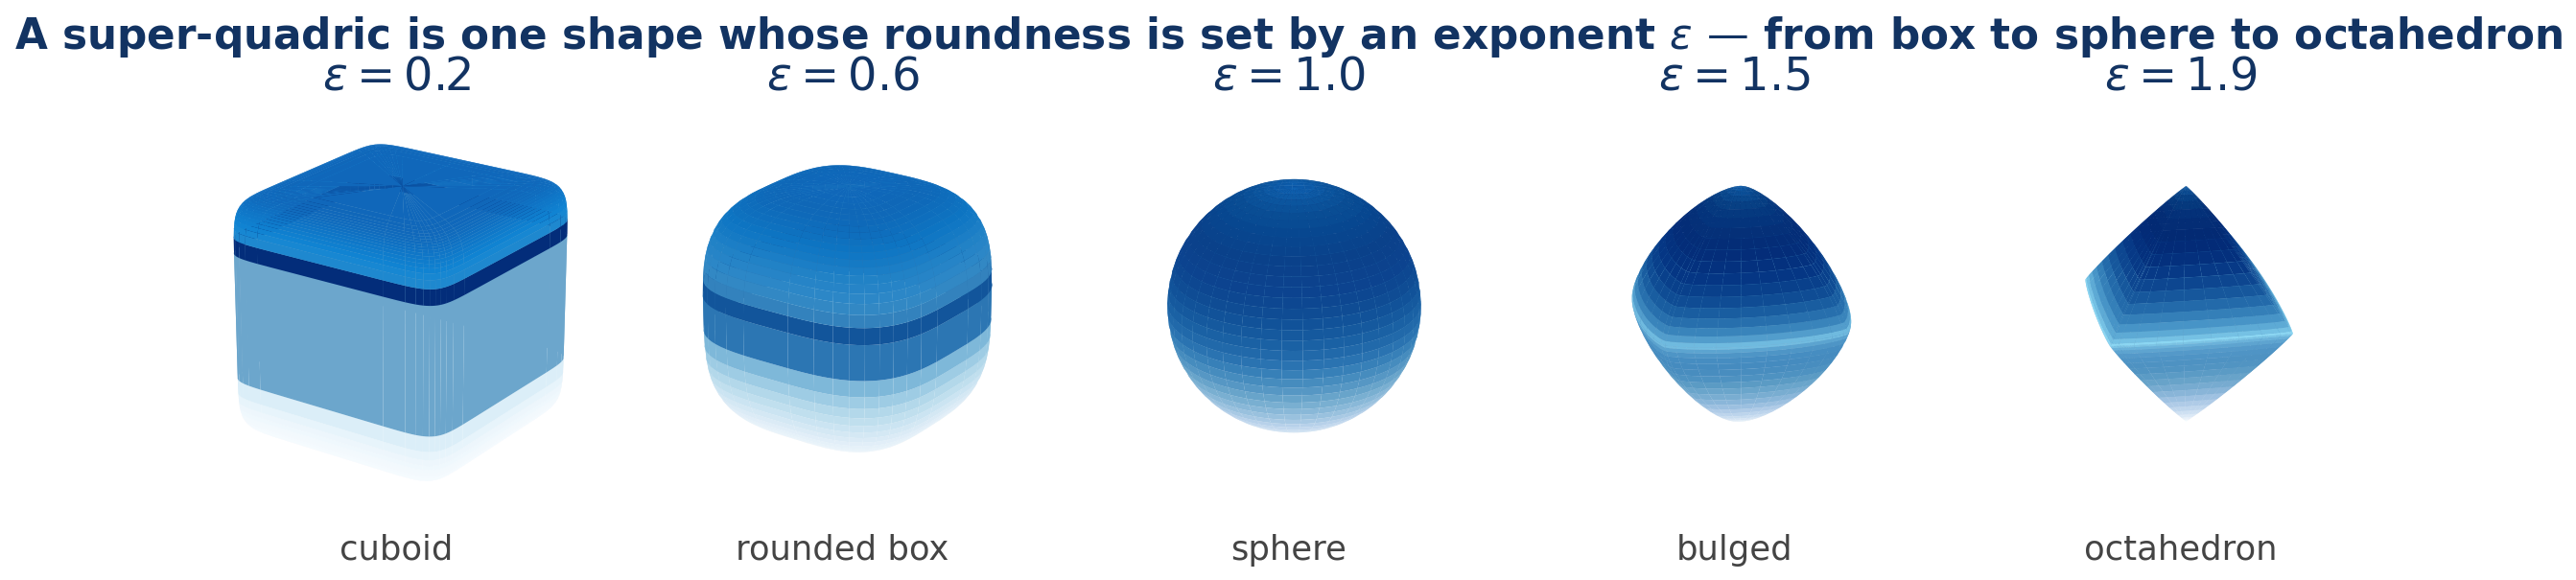
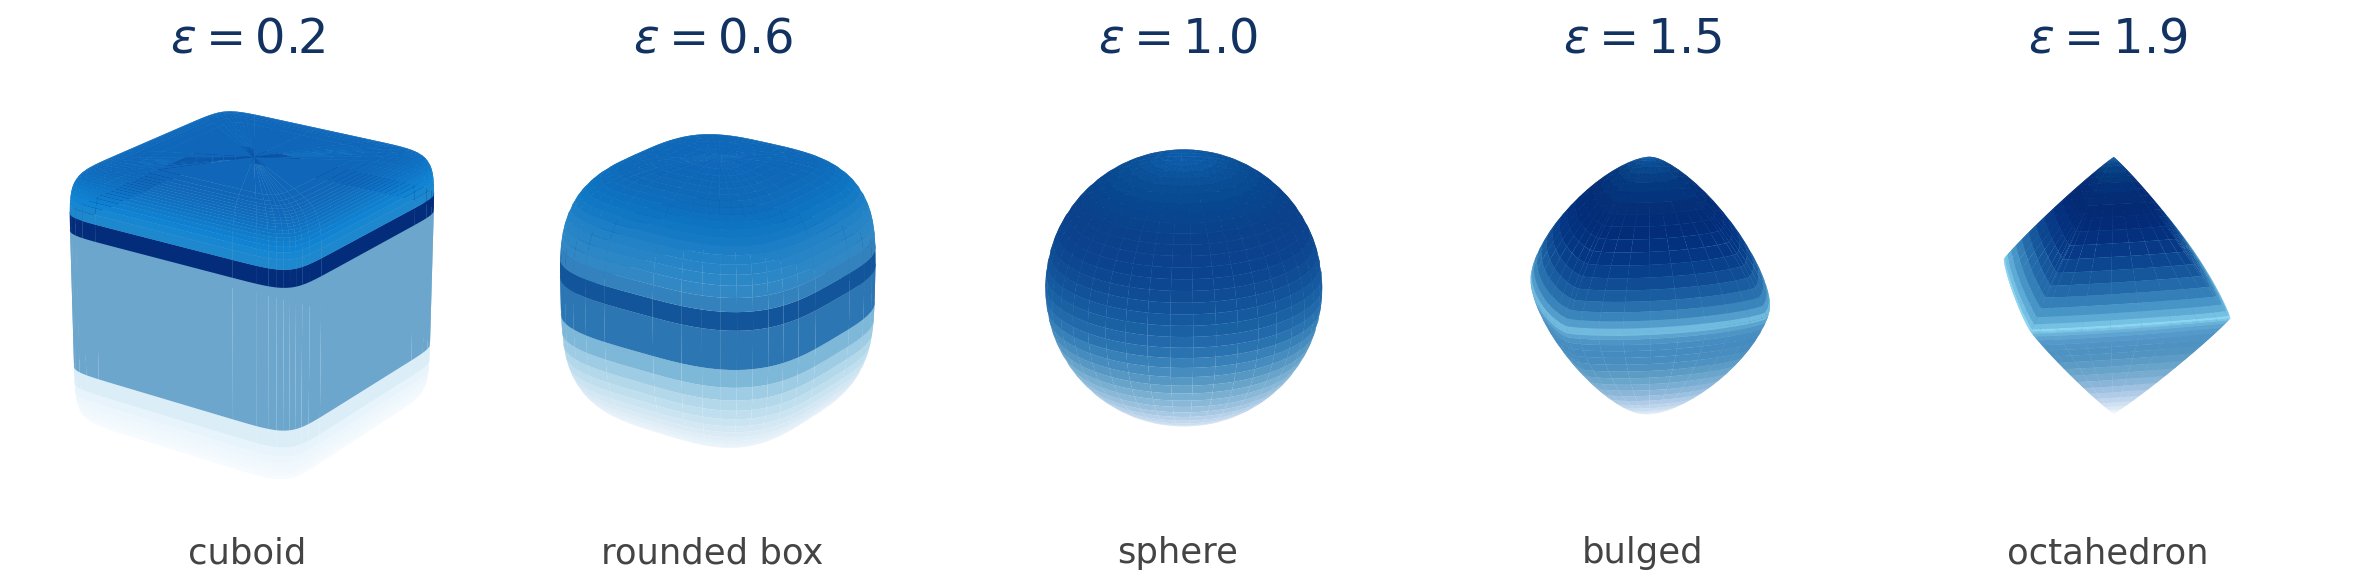
verticla spacing

diff --git a/poster/poster.tex b/poster/poster.tex
@@ -48,7 +48,8 @@
 \setlength{\columnsep}{\gutter}
 \newlength{\colwidth}
 \setlength{\colwidth}{\dimexpr0.5\paperwidth-\margin-0.5\gutter\relax}
-\newcommand{\flexgap}{\vspace{\gutter}}   % fixed, consistent gap between cards
+\newlength{\colheight}\setlength{\colheight}{57cm}   % target height: columns fill the page
+\newcommand{\flexgap}{\vfill}   % flexible gap: distributes slack so columns fill the page
 
 %------------------------------------------------------------------ canvas
 \usetheme{default}
@@ -143,6 +144,7 @@
 
 %---------------------------------------------------------------- LEFT COLUMN
 \begin{column}{\colwidth}
+\begin{minipage}[t][\colheight][s]{\colwidth}
 
   \begin{psection}{The Problem}
     Relocalization (the ``kidnapped robot'') asks for an accurate camera pose in
@@ -155,25 +157,34 @@
   \flexgap
 
   \begin{psection}{Method Overview}
-    \vskip0.2cm
+    \vskip0.25cm
     \centering
     \begin{tikzpicture}[
-        box/.style={draw=ETHBlue,line width=1.1pt,rounded corners=5pt,fill=white,
-                    minimum height=2.1cm,minimum width=8.8cm,align=center,font=\large},
-        io/.style={box,draw=ETHGrey!60,fill=BlueTint},
-        arr/.style={draw=ETHText,line width=1.4pt,-{Latex[length=4.5mm,width=3.5mm]}},
-        lbl/.style={font=\small\itshape,color=ETHGrey,align=center,fill=white,inner sep=1.5pt}]
-      \node[io]  (frames) at (-5.7,  0.0) {Sparse frames};
-      \node[box] (model)  at (-5.7, -3.2) {VGGT \,+\, MASt3R};
-      \node[io]  (map)    at ( 5.7, -1.6) {World map};
-      \node[box,fill=BlueTint,draw=ETHBlue,line width=1.4pt] (ba) at (0.0,-6.6) {Bundle Adjustment};
-      \node[box] (poses)  at ( 0.0,-9.8) {Camera poses};
+        io/.style={draw=ETHGrey!55,line width=1pt,rounded corners=5pt,fill=BlueTint,
+                   minimum height=1.85cm,minimum width=3.6cm,align=center,font=\large},
+        proc/.style={draw=ETHBlue,line width=1.3pt,rounded corners=5pt,fill=white,
+                     minimum height=1.85cm,minimum width=3.8cm,align=center,font=\large},
+        ours/.style={draw=ETHBlueDark,line width=1.6pt,rounded corners=5pt,fill=ETHBlue,
+                     text=white,minimum height=1.85cm,minimum width=4.7cm,align=center,font=\large},
+        arr/.style={draw=ETHText,line width=1.5pt,-{Latex[length=4mm,width=3mm]}},
+        flow/.style={font=\footnotesize\itshape,color=ETHGrey,align=center,
+                     fill=white,inner sep=2.5pt}]
+      % main spine: feed-forward -> optimize -> output (reads left to right)
+      \node[io]                     (frames) at ( 2.0, 0) {Sparse\\frames};
+      \node[proc,minimum width=4.8cm] (model)  at ( 8.6, 0) {VGGT \,+\, MASt3R};
+      \node[proc]                   (ba)     at (16.5, 0) {Bundle\\Adjustment};
+      \node[io]                     (poses)  at (22.7, 0) {Camera\\poses};
       \draw[arr] (frames) -- (model);
-      \draw[arr] (model)  -- node[lbl,pos=0.5,left=0.5mm] {Pose estimates\\+ correspondences} (ba);
-      \draw[arr] (map)    -- node[lbl,pos=0.5,right=0.5mm] {super-quadric\\loss} (ba);
+      \draw[arr] (model)  -- node[flow] {poses\\+ 2D tracks} (ba);
       \draw[arr] (ba)     -- (poses);
+      % our contribution: super-quadric prior adds a surface term to the BA cost
+      \node[ours] (prior) at (16.5,-3.6) {Super-quadric\\prior};
+      \draw[arr] (prior) -- (ba);
+      \node[font=\footnotesize\itshape,color=ETHBlueDark,anchor=west] at (16.85,-1.8) {$+$ surface loss};
+      \node[font=\footnotesize,color=ETHGrey,align=center,below=1mm of prior]
+            {our addition, from SuperDec on the known scene};
     \end{tikzpicture}
-    \vskip0.2cm
+    \vskip0.1cm
   \end{psection}
 
   \flexgap
@@ -226,9 +237,11 @@
     \end{minipage}
   \end{block}
 
+\end{minipage}
 \end{column}
 %---------------------------------------------------------------- RIGHT COLUMN
 \begin{column}{\colwidth}
+\begin{minipage}[t][\colheight][s]{\colwidth}
 
   \begin{psection}{Setup}
     \begin{itemize}
@@ -250,7 +263,7 @@
     \vskip0.8ex
     % ---- qualitative 3-panel pipeline (Sim(3)-aligned, rotation-error badges) ----
     \includegraphics[width=\linewidth]{figures/poses_v6_s6.png}
-    \cpt{Figure 2: one scene (scene 6, 6 views), cameras Sim(3)-aligned to ground
+    \cpt{Fig.\ 2: one scene (scene 6, 6 views), cameras Sim(3)-aligned to ground
       truth for display. Estimated headings (red) move toward ground truth (green) as
       bundle adjustment, then the prior, are added. Mean rotation error
       $20^\circ\!\to\!10^\circ\!\to\!2^\circ$ (pose AUC@5 $29\to48\to\mathbf{57}$).}
@@ -286,19 +299,20 @@
           title style={font=\small\bfseries,color=ETHBlueDark,yshift=1mm},
           symbolic x coords={4,6,8,10}, xtick=data,
           xlabel={Number of input views}, ylabel={$\Delta$ AUC@5 (pp)},
-          ymin=0, ymax=1.85, clip=false,
+          ymin=0, ymax=1.85, ytick={0,0.5,1,1.5}, clip=false,
           nodes near coords={\textbf{+\pgfmathprintnumber{\pgfplotspointmeta}}},
           every node near coord/.append style={font=\small,color=ETHBlueDark,/pgf/number format/.cd,fixed,precision=1},
         ]
           \addplot[fill=ETHBlue,draw=ETHBlue!70!black] coordinates {(4,1.3)(6,1.5)(8,0.1)(10,0.2)};
         \end{axis}
       \end{tikzpicture}
-    \end{minipage}\\[0.4ex]
+    \end{minipage}
+    \end{center}
+    \vskip-0.2ex
     \cpt{Left: bundle adjustment (grey) lifts raw VGGT (light), and our prior
       (blue) adds more as views get sparser. Right: the prior's gain grows from
       $+0.2$ at 10 views to $+1.5$ at 6 and $+1.3$ at 4 (up to $+2.0$ with light
       $\lambda$ tuning); at 6 views it helps 3/10 scenes (up to $+9.3$) and hurts none.}
-    \end{center}
   \end{psection}
 
   \flexgap
@@ -312,6 +326,7 @@
     relocalization most under sparse, low-covisibility views.}
   \end{psection}
 
+\end{minipage}
 \end{column}
 \end{columns}
 \end{frame}

diff --git a/ba/eval/fig_superquadric_family.py b/ba/eval/fig_superquadric_family.py
@@ -61,10 +61,9 @@ def main():
         ax.set_title(lab, fontsize=23, fontweight="bold", color=DARK, pad=-2)
         ax.text2D(0.5, -0.02, sub, transform=ax.transAxes, ha="center", va="top",
                   fontsize=17, color="#444444")
-    fig.suptitle("A super-quadric is one shape whose roundness is set by an exponent "
-                 r"$\varepsilon$ — from box to sphere to octahedron",
-                 fontsize=21, fontweight="bold", color=DARK, y=1.02)
-    fig.subplots_adjust(left=0.0, right=1.0, top=0.86, bottom=0.06, wspace=0.0)
+    # No suptitle: the LaTeX caption carries the explanation (avoids a redundant,
+    # em-dashed second caption baked into the image).
+    fig.subplots_adjust(left=0.0, right=1.0, top=0.95, bottom=0.06, wspace=0.0)
     fig.savefig(OUT, dpi=150, bbox_inches="tight", facecolor="white")
     print(f"wrote {OUT}")
 

diff --git a/poster/README.md b/poster/README.md
@@ -90,7 +90,12 @@ The header (title / authors / affiliations / group) is hand-built in the
 - [x] **Last author name** — set to `Pan Linfei`.
 - [ ] Section content lives in the `psection`/`block` environments in the body;
       section numbers are automatic. The takeaway band is the `tikzpicture`
-      right after `\begin{frame}`.
+      right after `\begin{frame}`. The **Method Overview** is also an inline
+      `tikzpicture`: a left-to-right pipeline (Sparse frames -> VGGT + MASt3R ->
+      Bundle Adjustment -> Camera poses) with the **super-quadric prior** as the
+      one solid-blue "ours" box feeding a `+ surface loss` term into BA from
+      below (blue = our contribution, matching the takeaway band and the Ours
+      bars). Box styles `io`/`proc`/`ours` are defined in that `tikzpicture`.
 - [ ] Figures (all real outputs): `superquadric_family.png` (the "what is a
       super-quadric" explainer) and `superquadrics_3d_clean.png` (Fig 1, the
       scene) in the left column. Results uses two side-by-side `pgfplots` bar